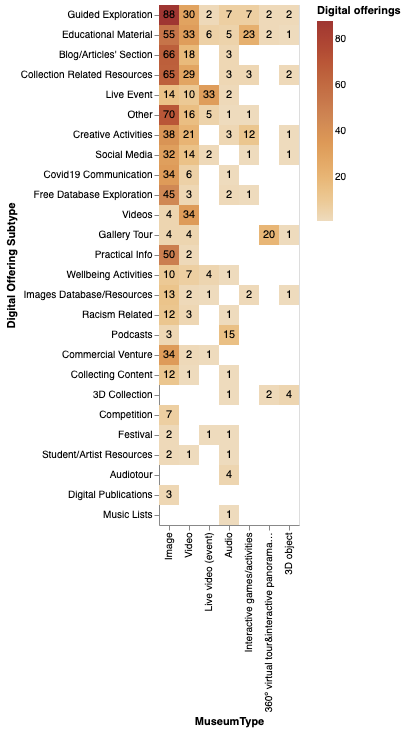
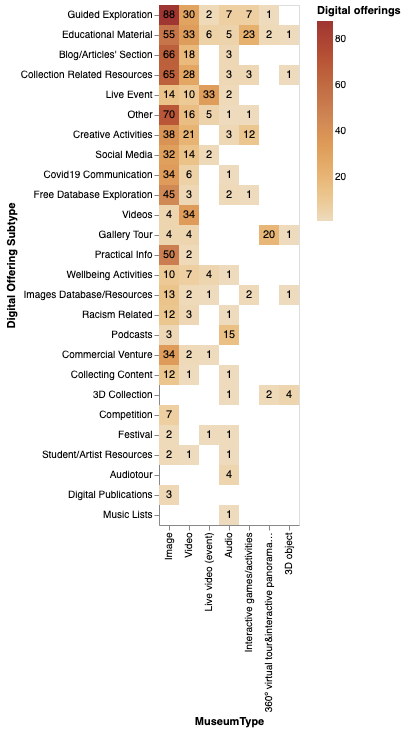
3d section completed

Changed region(s): [[0.6798, 0.1503, 0.7389, 0.2404], [0.6502, 0.0, 0.7389, 0.0601], [0.5911, 0.1803, 0.6502, 0.2404]]

diff --git a/EGauthorGuidelines-GCH2020-sub.tex b/EGauthorGuidelines-GCH2020-sub.tex
@@ -274,7 +274,7 @@ The current research set out to investigate the response of the heritage sector 
 %-------------------------------------------------------------------------
 
 %\section{Data Capture}
-In order to respond to the above questions, the collection of data included the survey of memory institutions' websites in the two countries. In total, we surveyed 83 memory institutions both in the UK and the US (48 in the  UK and 35 in the US). The sample included major institutions from both countries (e.g. based on visitor numbers from wikipedia) \cite{Wikipedia,Wikipediaa} plus smaller civic, historic and/or city museums. For this additional selection, we made use of the National Museums Director Council members' list in the UK \cite{nationalmuseums:2020} as well as a selection of smaller museums in different states of the US. For some memory institutions, which are aggregated under an ``umbrella'' trust, we surveyed the umbrella organisation as in most cases this presented the overall COVID response.
+In order to respond to the above questions, the collection of data included the survey of memory institutions' websites in the two countries. In total, we surveyed 83 memory institutions both in the UK and the US (48 in the  UK and 35 in the US). The sample included major institutions from both countries (e.g. based on visitor numbers from wikipedia) \cite{Wikipedia} plus smaller civic, historic and/or city museums. For this additional selection, we made use of the National Museums Director Council members' list in the UK \cite{nationalmuseums:2020} as well as a selection of smaller museums in different states of the US. For some memory institutions, which are aggregated under an ``umbrella'' trust, we surveyed the umbrella organisation as in most cases this presented the overall COVID response.
 
 All data were recorded from April the 23$^{rd}$  2020, only one month after the UK went into lockdown, until the 31$^{st}$ of July 2020, a few weeks after museums and galleries were allowed to reopen to the public in the UK. Both data collection and analysis was realised by an interdisciplinary team of researchers, providing in this way further validity due to ``investigator'' and analyst triangulation for the research.
 
@@ -565,13 +565,12 @@ Live events represented an interesting offering, given the increase already reco
 % images 663 / 922 total = 72%
 % video  236/ 922 total = 26%
 \subsection{Content for audiences}
-Data was also analysed to further explore the nature of the offerings' content in terms of the most popular data formats. Figure~\ref{fig:contenttype} presents the number of offerings for each type of content classified for each digital offering subtype. For the visualisation of the data, we discarded text content as this was the most dominant type of content for each category of offerings. Instead, we sought to understand other types of content offered to audiences. As Figure~\ref{fig:contenttype} illustrates, images and video were popular content types being available in 72\% and 26\% of the digital offerings respectively. 
+Data was also analysed to further explore the nature of the offerings' content in terms of the most popular data formats. Figure~\ref{fig:contenttype} presents the number of offerings for each type of content classified for each digital offering subtype. For the visualisation of the data, we discarded textual content as this was the most dominant type for each category of offerings. Instead, we sought to understand other types of content offered to audiences. As Figure~\ref{fig:contenttype} illustrates, images and video were popular content types being available in 72\% and 26\% of the digital offerings respectively. 
 
 Images were particularly relevant for guided exploration of the collection, blogs, and collection related resources. Video was relevant for guided exploration of the collection, educational material, and  collection related resources. 
 
-Interactivity, in the format of games and activities, was popular for offering creative activities and educational material. 360-degree virtual tours were offered mostly for gallery tours; although only 20 of these were recorded providing a very small percentage of the total offering with only 2\%. Finally, 3D objects were offered as part of 3D collections  as well as content for guided exploration, and collection related resources. Interesting offerings include... \KR{I noticed 3D content appears misclassified in many offerings, we will need to check these offerings before suggesting some examples.}
-
-
+Interactivity, in the form of games and activities, was popular for offering creative activities and educational material. 360-degree virtual tours were offered mostly for gallery tours; although only 20 of these were recorded providing a very small percentage of the total offering with only 2\%. Finally, 3D objects were offered as part of 3D collections  as well as content for guided exploration, and collection related resources. Their availability represented 1\% of the total digital offerings, making this the least popular type of content. 
+ 
 \begin{figure}[h]
   \centering
   \includegraphics[width=\linewidth]{images/typescontent.png}
@@ -580,7 +579,18 @@ Interactivity, in the format of games and activities, was popular for offering c
             Types of Content made available by institutions both in the UK and the US.}
 \end{figure}
 
-\subsection{Funding and donations}
+
+Sketchfab was the most popular platform for offerings 3D collections of museum artefacts with some examples highlighted during the survey \cite{britishsketchfab, ScienceMuseumsketchfab}, amongst other museums who provide access through this platform. Other examples include an interactive visualisation of terrestrial laser scaner data for exploring spaces that cannot be physically entered \cite{vizcayalidar}; and a game based on 3D models for learning how scientist classify different features of animal skulls to identify which animals they came form \cite{scieskull}.
+
+\begin{figure}[h]
+  \centering
+  \includegraphics[width=\linewidth]{images/3dexample.png}
+  %
+  \caption{\label{fig:3dexample}
+  Webpage example of Virtual Vizcaya offering with terrestrial laser scaner data}
+\end{figure}
+
+\subsection{Funding and donations} 
 \label{don}
 
 Given the financial impact of the COVID-19 crisis, including the financial loses because of the lockdown period and the urgent calls for financial support for the sector, we explored the extent to which memory institutions highlighted this issue to their audiences or even took steps to address this aspect. 
